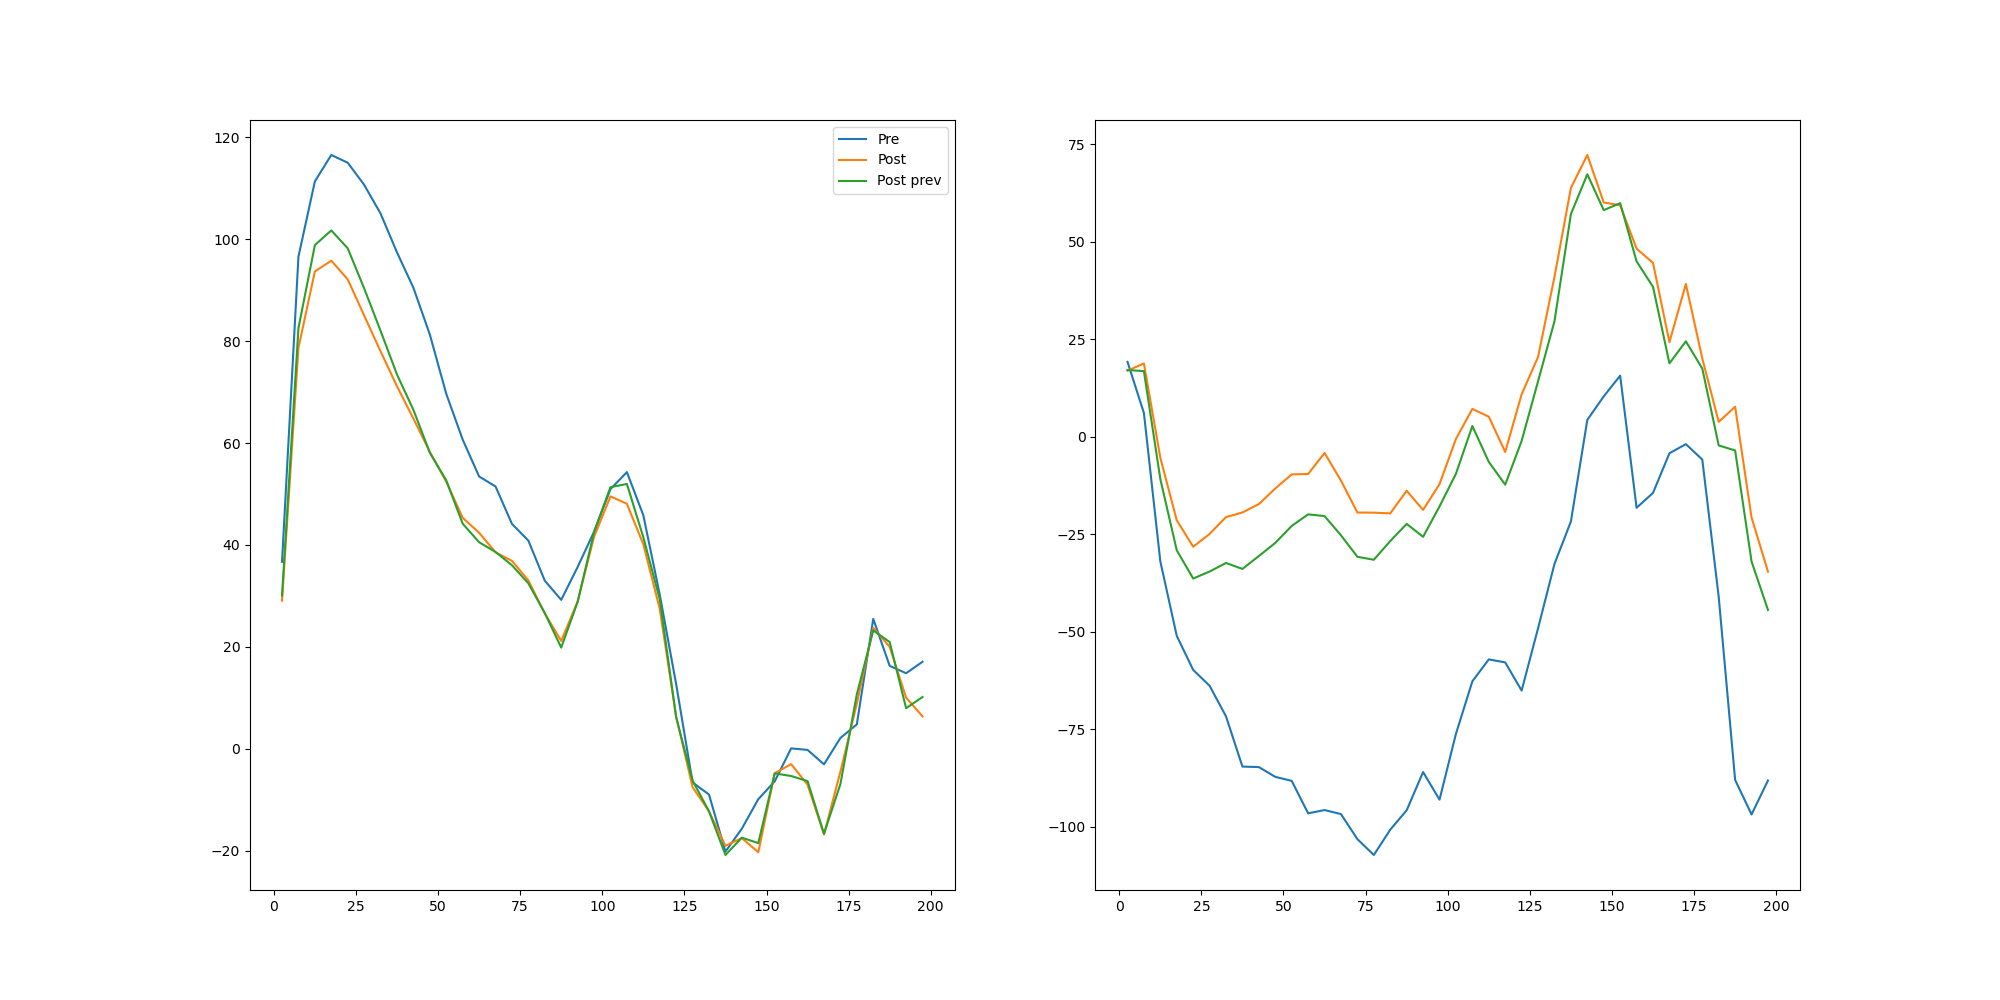
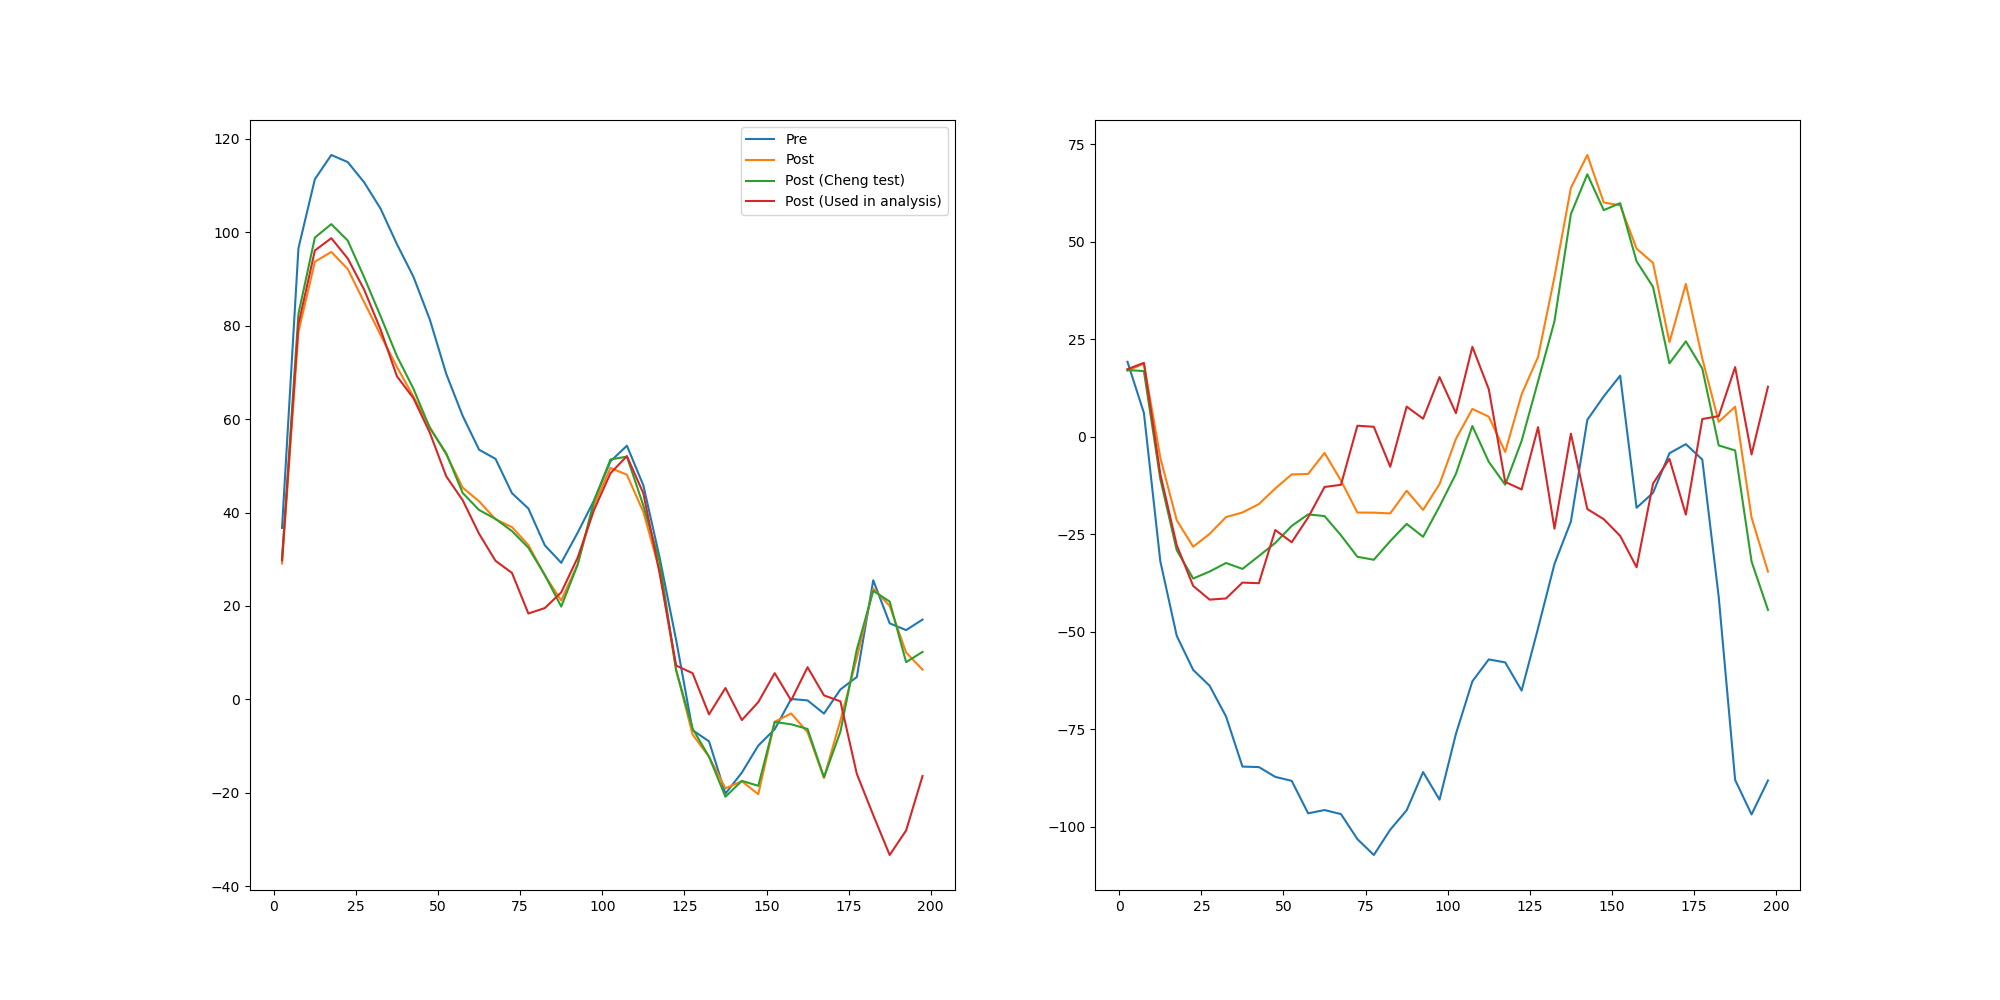
Not yet fix issue in boxes

diff --git a/notebooks/tpcf_test.py b/notebooks/tpcf_test.py
@@ -51,35 +51,43 @@ def main_fcfc_box():
 def main_fcfc_lc():
     pre_recon = "revolver_test/Patchy-Mocks-DR12CMASSLOWZTOT-N-V6C-Portsmouth-mass_0595.dat"
     post_recon = "revolver_test/Patchy-Mocks-DR12CMASSLOWZTOT-N-V6C-Portsmouth-mass_0595_pos_shift.dat"
+    post_recon_used =  "revolver_test/Patchy-Mocks-DR12CMASSLOWZTOT-N-V6C-Portsmouth-mass_0595.xyzwzi.recon"
     pre_recon_ran = "revolver_test/Random-DR12CMASSLOWZTOT-N-V6C-x20-VT-FC.dat"
     post_recon_ran = "revolver_test/Random-DR12CMASSLOWZTOT-N-V6C-x20-VT-FC_pos_shift.dat"
+    post_recon_used_ran = "revolver_test/Random-DR12CMASSLOWZTOT-N-V6C-x20_0595.xyzwzi.recon"
     #post_recon_prev = "revolver_test/GCF-Patchy-Mocks-DR12CMASSLOWZTOT-N-V6C-Portsmouth-mass_0595.2pcf" #These two do not coincide (should they?)
     post_recon_prev = "revolver_test/2PCF/2PCF_Patchy-Mocks-DR12CMASSLOWZTOT-N-V6C-Portsmouth-mass_0595_recon_z0.2z0.5.2pcf"
     pre_recon_fn = [os.path.splitext(pre_recon)[0]+"."+s for s in ['dd', 'dr', 'rr', '2pcf']]
     post_recon_fn = [os.path.splitext(post_recon)[0]+"."+s for s in ['dd', 'ds', 'ss', '2pcf']]
+    post_recon_used_fn = [os.path.splitext(post_recon_used)[0]+"."+s for s in ['dd', 'ds', 'ss', '2pcf']]
     if not os.path.isfile(pre_recon_fn[-1]):
         subprocess.check_call(["bin/2pcf_lc", "--conf=notebooks/fcfc_lc.conf", f"--data={pre_recon}", f"--rand={pre_recon_ran}", f"--dd={pre_recon_fn[0]}", f"--dr={pre_recon_fn[1]}", f"--rr={pre_recon_fn[2]}", f"--output={pre_recon_fn[3]}"])
-    if True: #not os.path.isfile(post_recon_fn[-1]):
+    if not os.path.isfile(post_recon_used_fn[-1]):
+        subprocess.check_call(["srun", "-p", "p5", "-n1", "-c32", "bin/2pcf_lc", "--conf=notebooks/fcfc_lc.conf", f"--data={post_recon_used}", f"--rand={post_recon_used_ran}", f"--dd={post_recon_used_fn[0]}", f"--dr={post_recon_used_fn[1]}", f"--rr={post_recon_used_fn[2]}", f"--output={post_recon_used_fn[3]}"])
+    if True:#not os.path.isfile(post_recon_fn[-1]):
         subprocess.check_call(["srun", "-p", "p5", "-n1", "-c32", "bin/2pcf_lc", "--conf=notebooks/fcfc_lc.conf", f"--data={post_recon}", f"--rand={post_recon_ran}", f"--dd={post_recon_fn[0]}", f"--dr={post_recon_fn[1]}", f"--rr={post_recon_fn[2]}", f"--output={post_recon_fn[3]}"])
         #subprocess.check_call(["bin/2pcf_lc", "--conf=notebooks/fcfc_lc.conf", f"--data={post_recon}", f"--rand={post_recon_ran}", f"--dd={post_recon_fn[0]}", f"--dr={post_recon_fn[1]}", f"--rr={post_recon_fn[2]}", f"--output={post_recon_fn[3]}"])
     pre_2pcf = pd.read_csv(pre_recon_fn[3], delim_whitespace=True, engine='c', names = ['s', 'mono', 'quad', 'hexa'])
     post_2pcf = pd.read_csv(post_recon_fn[3], delim_whitespace=True, engine='c', names = ['s', 'mono', 'quad', 'hexa'])
+    post_2pcf_used = pd.read_csv(post_recon_used_fn[3], delim_whitespace=True, engine='c', names = ['s', 'mono', 'quad', 'hexa'])
     post_2pcf_prev = pd.read_csv(post_recon_prev, delim_whitespace=True, engine='c', names = ['s', 'mono', 'quad', 'hexa'])
     fig, ax = plt.subplots(1,2, figsize=(20,10))
     ax[0].plot(pre_2pcf['s'], pre_2pcf['s']**2*pre_2pcf['mono'], label='Pre')
     ax[0].plot(post_2pcf['s'], post_2pcf['s']**2*post_2pcf['mono'], label='Post')
-    ax[0].plot(post_2pcf_prev['s'], post_2pcf_prev['s']**2*post_2pcf_prev['mono'], label='Post prev')
+    ax[0].plot(post_2pcf_prev['s'], post_2pcf_prev['s']**2*post_2pcf_prev['mono'], label='Post (Cheng test)')
+    ax[0].plot(post_2pcf_used['s'], post_2pcf_used['s']**2*post_2pcf_used['mono'], label='Post (Used in analysis)')
     ax[1].plot(pre_2pcf['s'], pre_2pcf['s']**2*pre_2pcf['quad'])
     ax[1].plot(post_2pcf['s'], post_2pcf['s']**2*post_2pcf['quad'])
     ax[1].plot(post_2pcf_prev['s'], post_2pcf_prev['s']**2*post_2pcf_prev['quad'])
+    ax[1].plot(post_2pcf_used['s'], post_2pcf_used['s']**2*post_2pcf_used['quad'])
     ax[0].legend(loc=0)
     plt.gcf()
     plt.savefig("notebooks/before_after_test_lc.png")
 def main_fcfc_ran_box():
     pre_recon = "revolver_test/CATALPTCICz0.466G960S1005638091_zspace.dat"
-    post_recon = "revolver_test/CATALPTCICz0.466G960S1005638091_zspace_wran_pos_shift.dat"
+    post_recon = "revolver_test/CATALPTCICz0.466G960S1005638091_zspace_pos_shift.dat"
     pre_recon_ran = "revolver_test/box_uniform_random_seed1_0-2500.dat"
-    post_recon_ran = "revolver_test/box_uniform_random_seed1_0-2500_pos_shift.dat"
+    post_recon_ran = "revolver_test/box_uniform_random_seed1_0-2500.dat"
     pre_recon_fn = [os.path.splitext(pre_recon)[0]+"."+s for s in ['dd', 'dr', 'rr', '2pcf']]
     post_recon_fn = [os.path.splitext(post_recon)[0]+"."+s for s in ['dd', 'ds', 'ss', '2pcf']]
     if not os.path.isfile(pre_recon_fn[-1]):
@@ -189,5 +197,5 @@ def main_astroml():
 if __name__ == '__main__':
     #main_corrfunc()
     #main_fcfc_box()
-    main_fcfc_lc()
-    #main_fcfc_ran_box()
+    #main_fcfc_lc()
+    main_fcfc_ran_box()

diff --git a/python_tools/numba_modules.py b/python_tools/numba_modules.py
@@ -1,0 +1,87 @@
+from numba import cuda
+import numpy as np
+print(cuda.gpus)
+
+
+@cuda.jit
+def allocate_gal_cic_kernel(delta, x, y, z, w, npart, xmin, zmin, boxsize, nbins, wrap):
+
+
+    binsize = boxsize / nbins
+    oneoverbinsize = 1.0 / binsize
+    weight = 1.0
+    
+    #delta assumed oto be initialized to zero (np.zeros)
+
+    particle_index = cuda.blockIdx.x * cuda.blockDim.x + cuda.threadIdx.x
+    stride = cuda.blockDim.x * cuda.gridDim.x
+    for i in range(particle_index, npart, stride):
+        if(w is not None): weight = w[i]
+        else : weight=1
+    
+        xpos = (x[i] - xmin) * oneoverbinsize
+        ypos = (y[i] - ymin) * oneoverbinsize
+        zpos = (z[i] - zmin) * oneoverbinsize
+
+        ix = int(xpos) % nbins
+        iy = int(ypos) % nbins
+        iz = int(zpos) % nbins
+
+        ddx = xpos-ix
+        ddy = ypos-iy
+        ddz = zpos-iz
+
+        mdx = (1.0 - ddx)
+        mdy = (1.0 - ddy)
+        mdz = (1.0 - ddz)
+
+        ixp = ix + 1;
+        iyp = iy + 1;
+        izp = iz + 1;
+
+        if(wrap):
+            if(ixp >= nbins): ixp -= nbins
+            if(iyp >= nbins): iyp -= nbins
+            if(izp >= nbins): izp -= nbins
+            
+        else:
+            if(ixp >= nbins):
+                ixp = 0
+                mdx = 0.0
+            if(iyp >= nbins):
+                iyp = 0
+                mdy = 0.0
+            if(izp >= nbins):
+                izp = 0
+                mdz = 0.0
+            
+        delta[ix,  iy,  iz]  += mdx * mdy * mdz * weight
+        delta[ixp, iy,  iz]  += ddx * mdy * mdz * weight
+        delta[ix,  iyp, iz]  += mdx * ddy * mdz * weight
+        delta[ix,  iy,  izp] += mdx * mdy * ddz * weight
+        delta[ixp, iyp, iz]  += ddx * ddy * mdz * weight
+        delta[ixp, iy,  izp] += ddx * mdy * ddz * weight
+        delta[ix,  iyp, izp] += mdx * ddy * ddz * weight
+        delta[ixp, iyp, izp] += ddx * ddy * ddz * weight
+
+    return delta
+    
+
+def main():
+    # Create arrays
+    x = np.ones(N)
+    y = np.copy(x)*2
+    z = np.empty_like(x)
+    # Define blocks and threads
+    n_threads_per_block = int(256)
+    n_blocks = int((N + n_threads_per_block -1) / n_threads_per_block)
+    #print(n_threads_per_block, n_blocks, n_threads_per_block*n_blocks)
+    #print(z)
+    add[n_blocks, n_threads_per_block](N, x, y, z)
+    cuda.synchronize()
+
+    print(z)
+    
+
+if __name__=='__main__':
+    main()

diff --git a/python_tools/recon.py b/python_tools/recon.py
@@ -8,8 +8,9 @@ from python_tools.cosmology import Cosmology
 import python_tools.fastmodules as fastmodules
 import pyfftw
 from astropy.table import Table
+#from python_tools.numba_modules import allocate_gal_cic_kernel
 
-
+#exit()
 class Recon:
 
     def __init__(self, cat, ran, parms):
@@ -37,6 +38,7 @@ class Recon:
         self.nthreads = parms.nthreads
         self.is_box = parms.is_box
 
+        
         # if dealing with data in a simulation box with PBC and uniform selection
         # the random data is not used and many of the processing steps are not required,
         # so check and proceed on this basis
@@ -182,6 +184,7 @@ class Recon:
                 fastmodules.mult_norm(rhok, rhok, norm)
                 ifft_obj(input_array=rhok, output_array=rho)
                 deltar = rho.real
+                
 
         else:
             delta = self.delta
@@ -204,6 +207,7 @@ class Recon:
         deltag = np.zeros((nbins, nbins, nbins), dtype='float64')
         fastmodules.allocate_gal_cic(deltag, cat.newx, cat.newy, cat.newz, cat.weight, cat.size, self.xmin, self.ymin,
                                      self.zmin, self.box, nbins, 1.)
+        
         if self.verbose:
             print('Smoothing galaxy density field ...')
         sys.stdout.flush()

diff --git a/revolver.py b/revolver.py
@@ -79,14 +79,12 @@ if parms.do_recon:
 
     start = time.time()
     # now run the iteration loop to solve for displacement field
-    print(cat.ra)
-    print(recon.cat.ra)
+    
     for i in range(parms.niter):
         recon.iterate(i, debug=parms.debug)
 
     # get new ra, dec and redshift for real-space positions
-    print(cat.ra)
-    print(recon.cat.ra)
+    
     if not parms.is_box:
         cat.ra, cat.dec, cat.redshift = recon.get_new_radecz(recon.cat)
     

diff --git a/tfgputest.py b/tfgputest.py
@@ -1,0 +1,11 @@
+#!/usr/bin/env python
+import tensorflow as tf
+from tensorflow.compat.v1 import ConfigProto
+from tensorflow.compat.v1 import InteractiveSession
+
+config = ConfigProto()
+config.gpu_options.allow_growth = True
+session = InteractiveSession(config=config)
+tf.config.experimental.list_physical_devices('GPU')
+tf.debugging.set_log_device_placement(True)
+print("Num GPUs Available: ", len(tf.config.experimental.list_physical_devices('GPU')))
